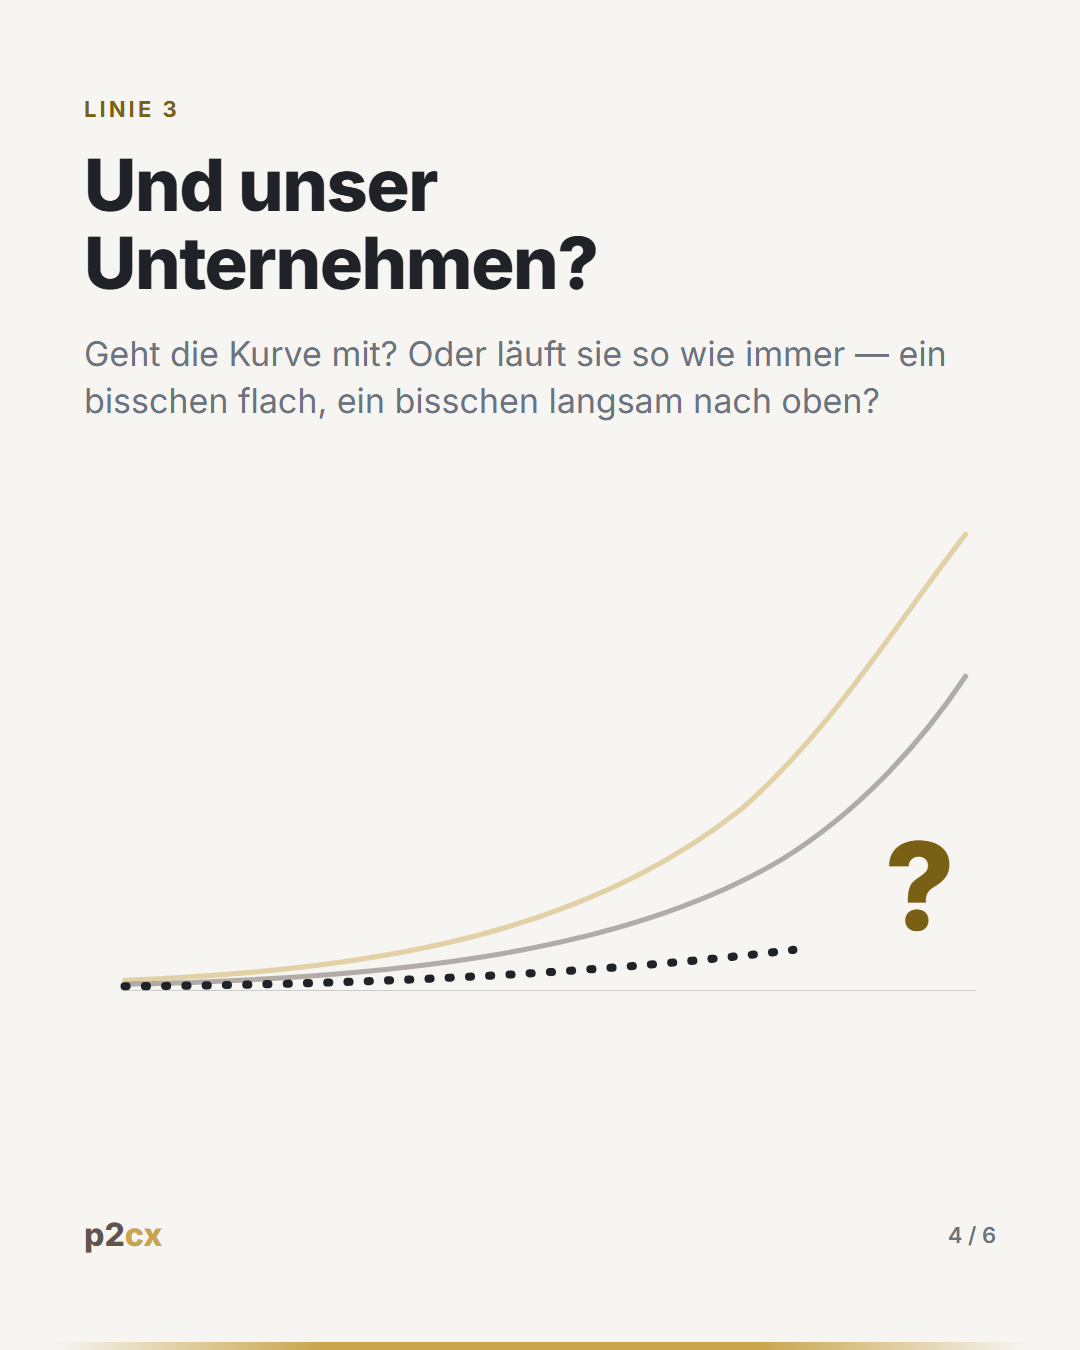
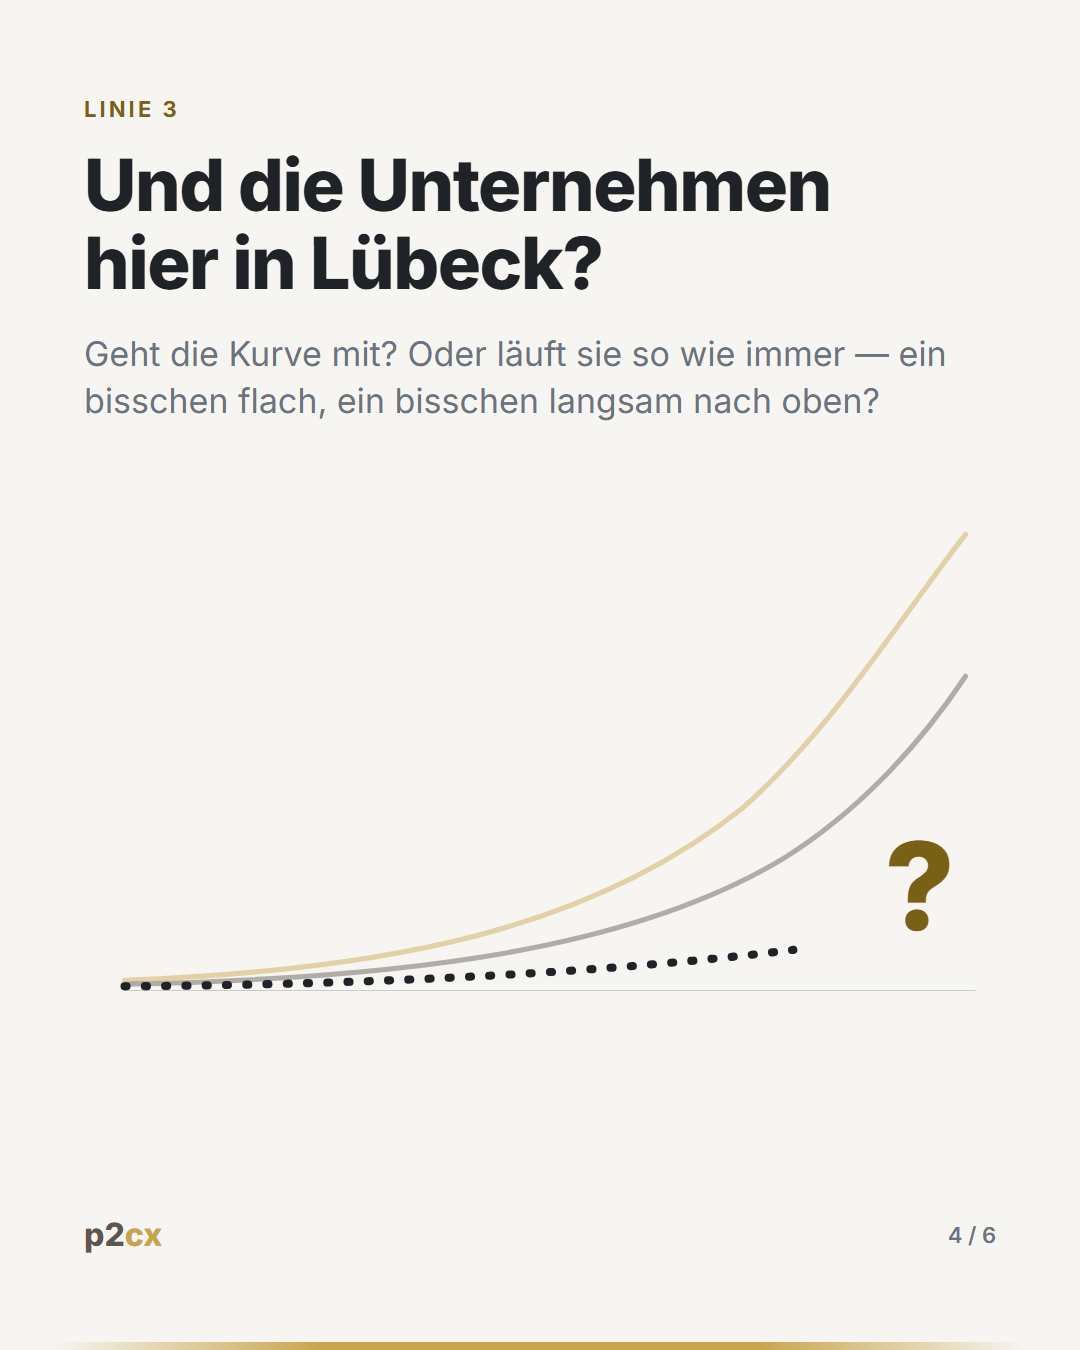
fix: Notizen Woche 1 - Kurve der Luebecker Unternehmen statt 'unsere'
Claude-Session: https://claude.ai/code/session_01F9TNvRPrfdZiFJRZ4GXBcN

Changed region(s): [[0.0917, 0.0933, 0.7639, 0.2178]]

diff --git a/p2cx/de/notizen/index.html b/p2cx/de/notizen/index.html
@@ -70,12 +70,12 @@
     <div class="container">
       <div class="p2cx-card"><div class="p2cx-body artikel">
         <div class="chip mb-2"><span class="wk">Woche 1</span> · Ouvertüre</div>
-        <h2 class="mt-2">Wo ist eigentlich unsere Kurve?</h2>
+        <h2 class="mt-2">Wo ist eigentlich die Kurve der Lübecker Unternehmen?</h2>
 
         <p>Ich fang mal mit etwas an, bei dem vermutlich jeder nickt.</p>
         <p><strong>Die Technik wird immer schneller.</strong> Das Smartphone hat ein paar Jahre gebraucht, bis es überall war. KI ist in einem Bruchteil davon in jedem Büro gelandet. Und jetzt kommt Robotik dazu, und die Verbindung aus beidem ist ziemlich heftig. Stimmt, oder?</p>
         <p><strong>Und die Gesellschaft zieht mit.</strong> Nicht ganz so schnell, aber sie zieht. Wir bestellen anders, wir lernen anders, wir erwarten anders. Was gestern neu war, ist heute normal. Auch das: stimmt, oder?</p>
-        <p>Und jetzt die Frage, über die ich seit Jahren grübel: <strong>Wo ist unsere Kurve? Die von unserem Unternehmen?</strong> Geht die mit? Oder läuft sie eher so wie immer — ein bisschen flach, ein bisschen langsam nach oben?</p>
+        <p>Und jetzt die Frage, über die ich seit Jahren grübel: <strong>Wo ist eigentlich die Kurve in den Lübecker Unternehmen?</strong> Geht die mit? Oder läuft sie eher so wie immer — ein bisschen flach, ein bisschen langsam nach oben?</p>
 
         <img class="bild my-3" src="/img/notizen/w01-kurve.png" alt="Drei Kurven: Technik steil, Gesellschaft etwas flacher, das Unternehmen gepunktet und flach, daneben ein Fragezeichen" width="1080" height="1350" loading="lazy" style="max-width:420px;">
 
